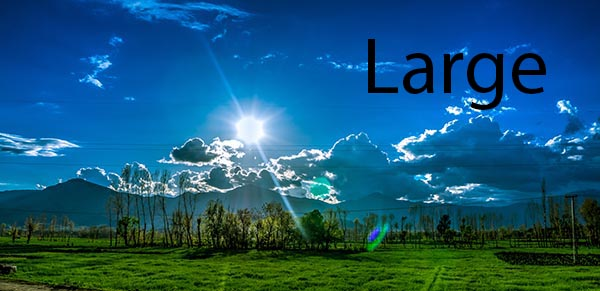
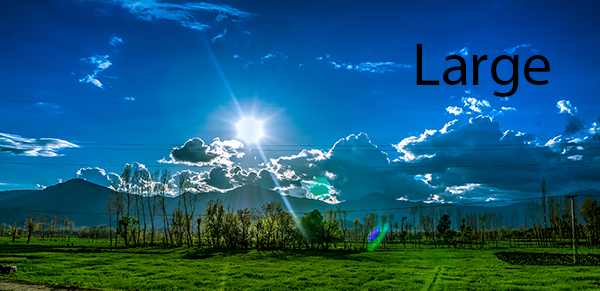
images fixed 021221 8:29pm

diff --git a/lesson6/preston-6.html b/lesson6/preston-6.html
@@ -53,7 +53,11 @@
     <main>
         <div class="hero-div">
             <div class="falls">
-                <img src="images/shoshone-falls.jpg" alt="image of Shoshone Falls in Twin Falls Idaho" width="960">
+                <picture>
+                    <source srcset="images/provided400.jpg" media="(min-width: 500px) and (max-width: 799px">
+                    <source srcset="images/provided600.jpg" media="(min-width: 800px)">    
+                <img src="images/provided250.jpg" alt="image of green field with sun, blue sky and clouds">
+            </picture>
             </div>
 
             <section class="overlay">
@@ -72,7 +76,7 @@
                         <td><b>3 MPH SE</b></td>
                     </tr>
                     <tr>
-                        <td><b>Wind Chill:</b></td>
+                        <td><b>Feels like:</b></td>
                         <td><b>26&#176;</b></td>
                     </tr>
                 </table>
@@ -115,8 +119,17 @@
 
         <div class="article">
             <h3><b>Weather News</b></h3>
-            <img class="rainstorm" src="images/rainstorm.jpg" alt="rain and lightning in the evening">
+            <img class="rainstorm" src="images/rainstorm400.jpg" alt="rain and lightning in the evening">
 
+            <p>Welcome to the Preston weather home page. Here, you will find a five-day forecast, today's
+                temperature as well as humidity and wind chill. We will always alert you when there is stormy
+                weather, with updates on road conditions and closures.<br><br>
+
+                Last week's storm inundated Preston with 3 inches of rainfall in 2 hours, which caused mild
+                flooding in some neighborhoods. Be prepared for the moisture to turn to snow soon, as there is
+                an arctic blast moving our direction. The arctic blast is currently causing major problems in
+                the eastern part of the country in the form of a nor'easter. Stay tuned for more weather news.
+            </p>
             <p>Welcome to the Preston weather home page. Here, you will find a five-day forecast, today's
                 temperature as well as humidity and wind chill. We will always alert you when there is stormy
                 weather, with updates on road conditions and closures.<br><br>
@@ -132,7 +145,7 @@
         <ul class="footer">
             <li>
                 <h3>Weather Map</h3><br>
-                <img src="images/map.JPG" alt="Weather map of Preston">
+                <img class="map" src="images/map.JPG" alt="Weather map of Preston">
             </li>
 
             <li>
@@ -158,11 +171,13 @@
                 <p>&copy;2021 Whether to Weather | Jeannine Haslett | <a href="https://www.byui.edu/online">BYUI
                         Online Learning </a></p>
             </div>
+        </div>
 
             <div id="date"></div>
          
       </footer>
     <script src="js/script.js"></script>
+    
 </body>
 
-<html>
+</html>

diff --git a/lesson6/css/small.css b/lesson6/css/small.css
@@ -1,5 +1,5 @@
-body {
-  max-width: 700px;
+  body {
+  max-width: 799px;
   background-color: #d8e3ff;
 }
 
@@ -120,10 +120,11 @@ nav ul.hide {
   width: 100%;
 }
 
-.falls {
-  max-width: 100%;
-  margin: 0px;
-  }
+picture {
+  display: block;
+  width: 100%;
+  margin: 0;
+}
 
 .overlay {
   position: block;
@@ -132,7 +133,7 @@ nav ul.hide {
   padding: 10px;
   background-color: rgba(76, 134, 169, .75);
   border-radius: 5px;
-  box-shadow: 0px 0px 30px 3px #8a7968;
+  box-shadow: 0px 0px 30px 3px white;
   grid-template-columns: auto;
   
 }
@@ -152,6 +153,15 @@ nav ul.hide {
 main {
   display: block;
   margin: 0;
+}
+
+main .hero photo {
+  display: flex;
+  max-width: 100%;
+  margin: 0;
+  display: block;
+  background-color: #d8e3ff;
+  float: right;
 }
 
 main h2 {
@@ -182,16 +192,17 @@ main h2 {
 }
 
 .rainstorm {
-  max-width: 200px;
   float: right;
-  padding: 10px;
+  margin: 5px;
+
+  
 }
 
 .five-day-forecast {
   display: grid;
   grid-template-columns: 1fr 1fr 1fr 1fr 1fr;
   text-align: center;
-  max-width: 650px;
+  max-width: 100%;
   margin: 0;
 }
 
@@ -217,11 +228,6 @@ main h2 {
   text-align: center;
   max-width: 50px;
   padding: 5px;
-}
-
-main div {
-  display: block;
-  background-color: #d8e3ff;
 }
 
 .footer {
@@ -252,6 +258,7 @@ main div {
 .footer li {
   list-style-type: none;
   padding: 25px;
+  margin-left: 50px;
 }
 
 footer {
@@ -278,7 +285,7 @@ footer {
 }
 
 .social-media img {
-  max-width: 20px;
+  max-width: 25px;
   padding: 10px 15px 0px 0px;
 }
 
@@ -296,7 +303,9 @@ footer p {
   text-align: left;
   font-size: 12px;
 }
-
+footer li .map {
+  max-width: 100%;
+}
 .copy {
   background-color: #172a39;
   color: #d8e3ff;

diff --git a/lesson6/css/medium.css b/lesson6/css/medium.css
@@ -1,5 +1,5 @@
 /*Medium Screen*/
-@media only screen and (min-width: 700px) {
+@media only screen and (min-width: 500px) {
   body {
     max-width: 1000px;
     margin: 0 auto;
@@ -45,12 +45,12 @@
     padding: 0px;
     align-items: center;
     justify-content: center;
-    margin-right: 20px;
+    margin: 0;
   }
 
   .overlay {
-    top: 50px;
-    left: 50px;
+    top: 40px;
+    left: 40px;
     position: absolute;
     }
 
@@ -71,8 +71,8 @@
     padding: 10px;
   }
   
-  .rainstorm {
-    max-width: 300px;
+  .rainstorm img {
+    float: right;
     margin: 0;
   }
 
@@ -114,6 +114,10 @@
   align-items: center;
   } 
 
+  .social-media img {
+    max-width: 30px;
+    padding: 10px 15px 0px 0px;
+  }
 
  .footer img {
   max-width: 650px;

diff --git a/lesson6/css/large.css b/lesson6/css/large.css
@@ -1,4 +1,4 @@
-@media only screen and (min-width: 875px) {
+@media only screen and (min-width: 800px) {
   main {
     max-width: 1000px;
     margin: auto;
@@ -6,6 +6,10 @@
 
   main .largerp {
     margin: 0 auto;
+  }
+
+  .falls  img{
+    max-width: 1000px;
   }
 
   footer {
